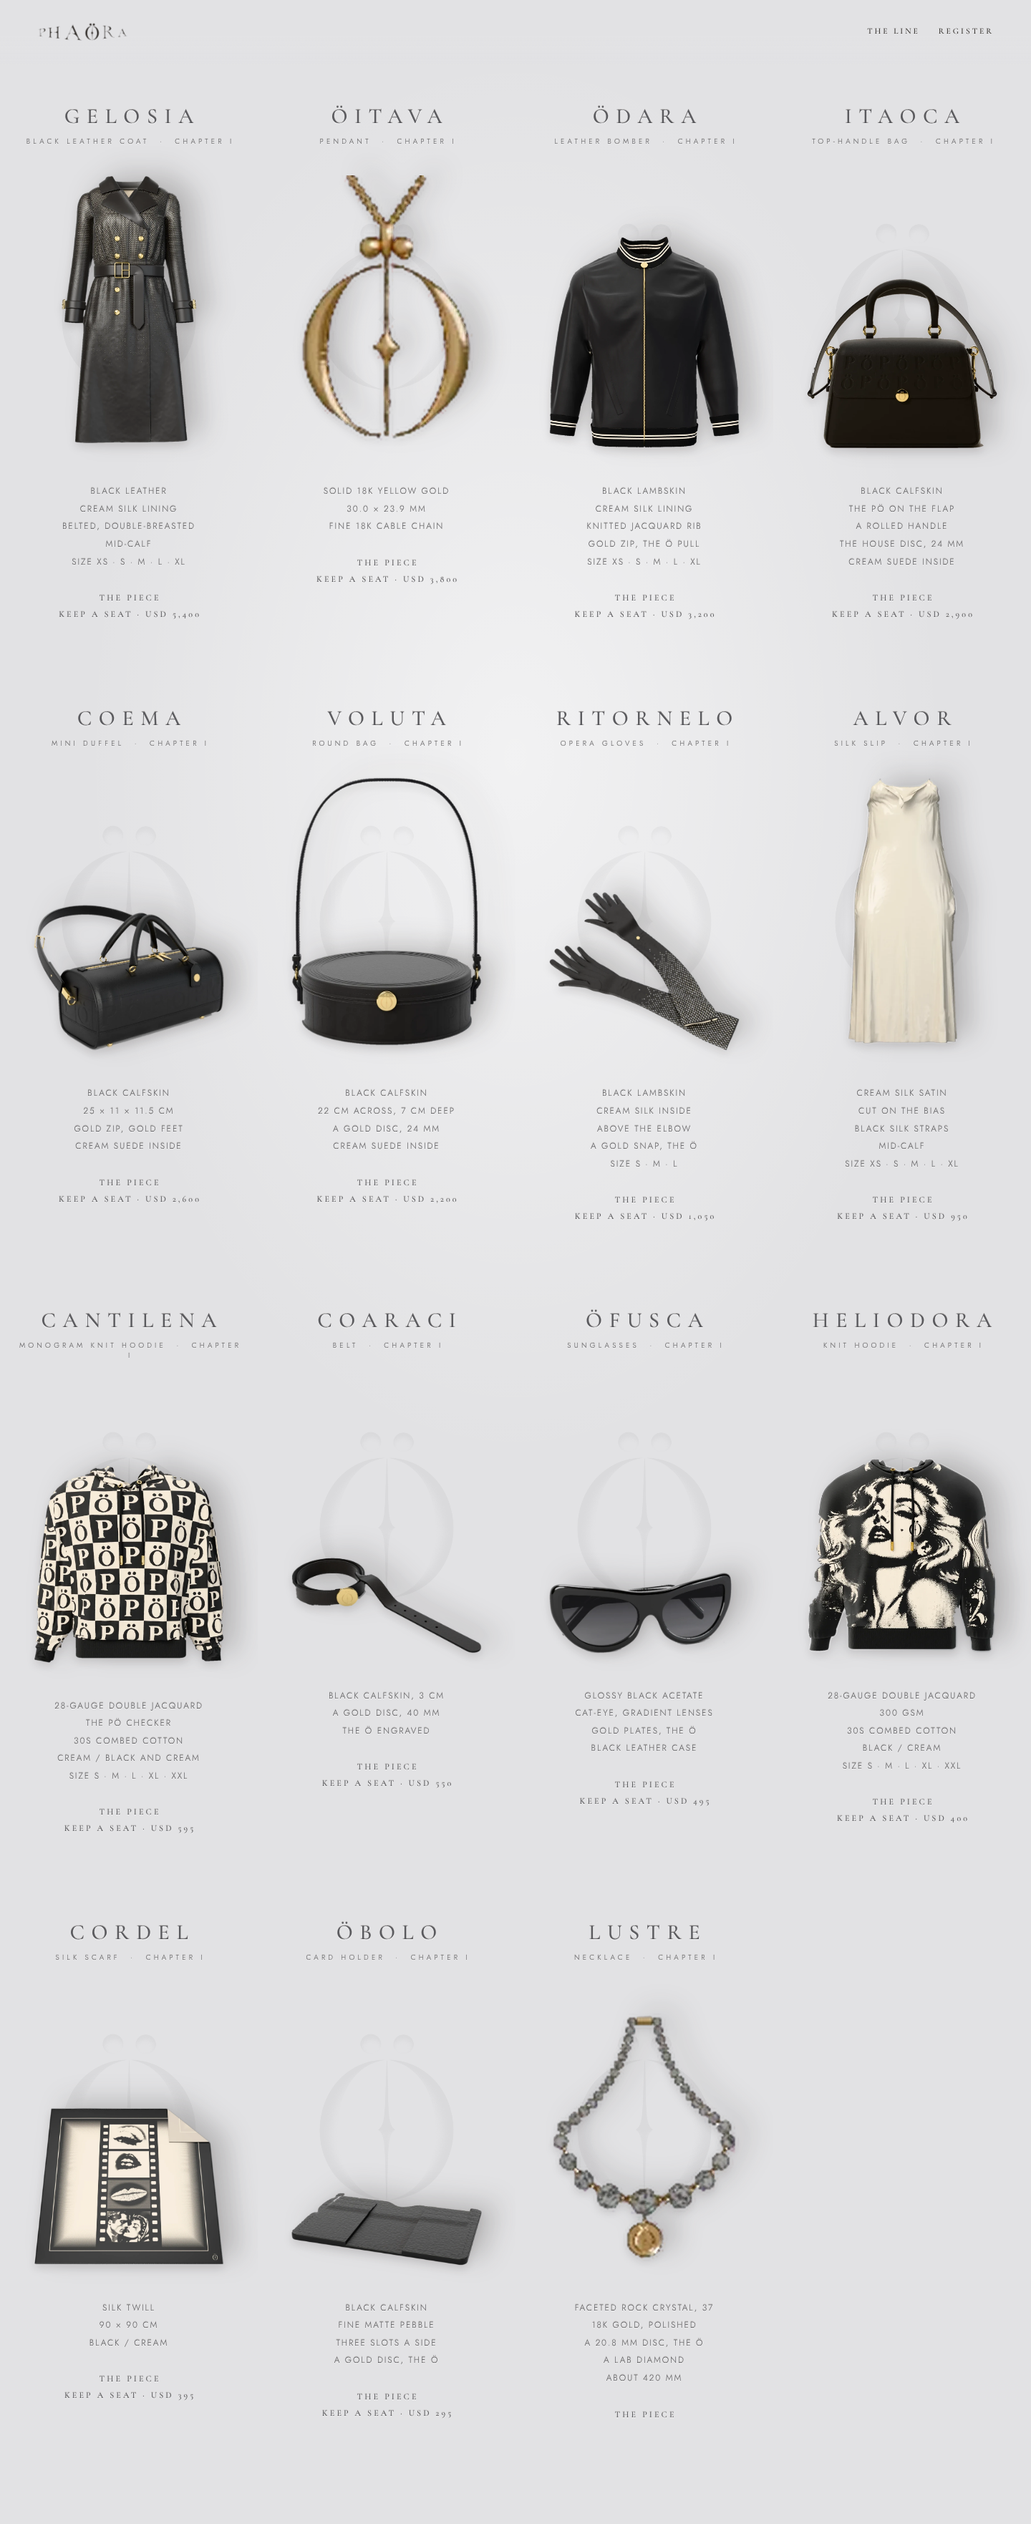
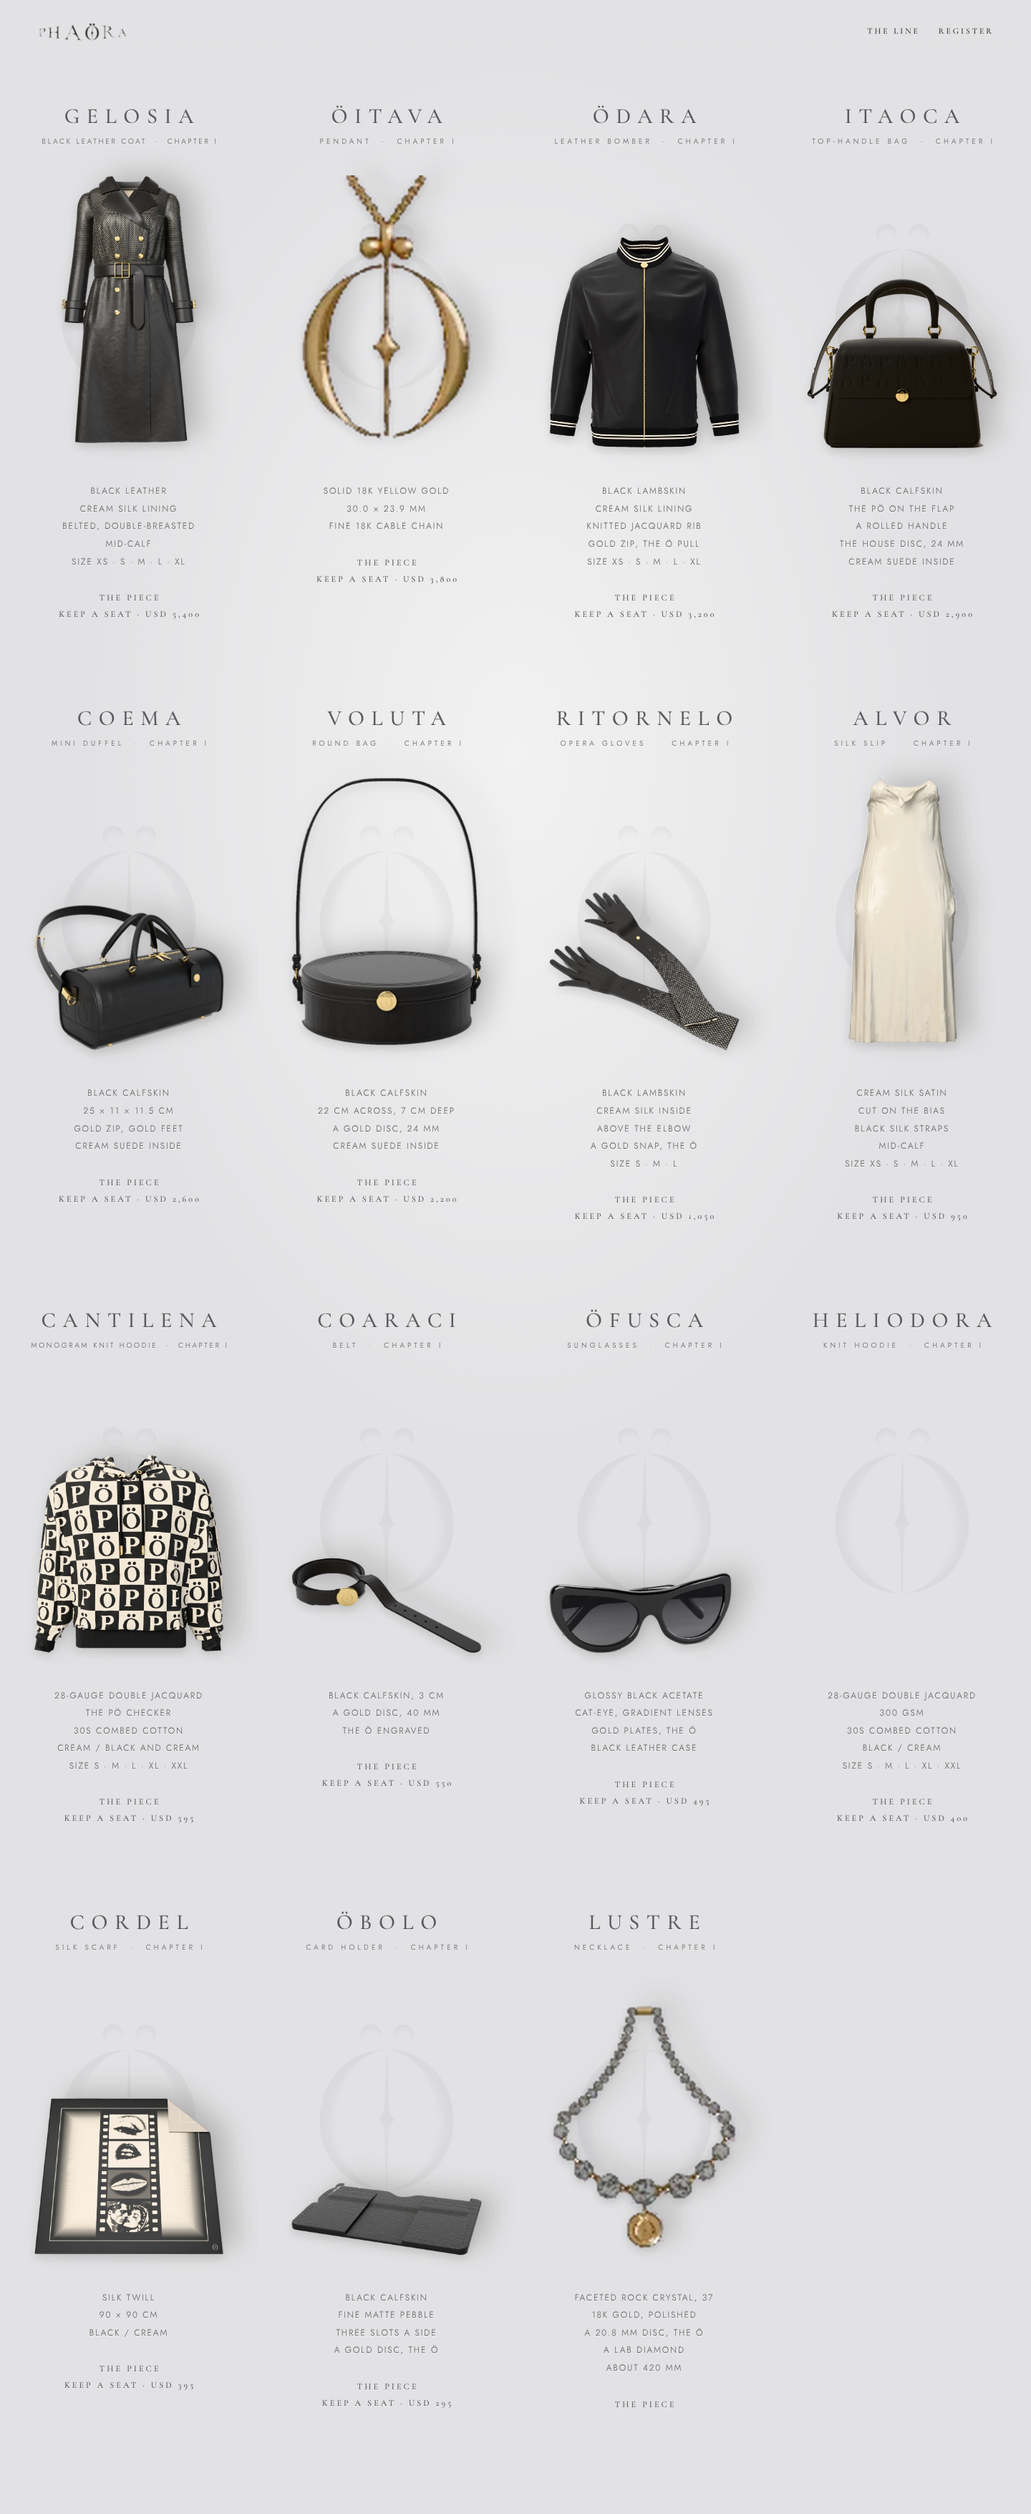
Catalogue: every type line on one line (Cantilena's tightened), down to the narrowest desktop
Claude-Session: https://claude.ai/code/session_0133zY8WYR2Yz4VqDzteq4sV

diff --git a/chapter-1/index.html b/chapter-1/index.html
@@ -13,7 +13,7 @@
 <div class="top"></div>
 <a id="logo" href="#top" aria-label="PHAÖRA"></a>
 <nav id="sitenav"><a href="#top">The line</a><a href="/">Register</a></nav>
-<main class="cat"><article class="col" id="gelosia"><h2 class="t cut">GELOSIA</h2><p class="s cut">BLACK LEATHER COAT &nbsp;·&nbsp; CHAPTER I</p><a class="ph" href="gelosia.html"><img src="assets/room/veil_coat.webp" alt="Gelosia, black leather coat" loading="lazy" decoding="async"></a><ul class="specs cut"><li>BLACK LEATHER</li><li>CREAM SILK LINING</li><li>BELTED, DOUBLE-BREASTED</li><li>MID-CALF</li><li>SIZE  XS · S · M · L · XL</li></ul><p class="links cut"><a href="gelosia.html">The piece</a><a href="/">Keep a seat · USD 5,400</a></p></article><article class="col" id="oitava"><h2 class="t cut">ÖITAVA</h2><p class="s cut">PENDANT &nbsp;·&nbsp; CHAPTER I</p><a class="ph" href="oitava.html"><img src="assets/room/oitava.webp" alt="Öitava, pendant" loading="lazy" decoding="async"></a><ul class="specs cut"><li>SOLID 18K YELLOW GOLD</li><li>30.0 × 23.9 MM</li><li>FINE 18K CABLE CHAIN</li></ul><p class="links cut"><a href="oitava.html">The piece</a><a href="/">Keep a seat · USD 3,800</a></p></article><article class="col" id="odara"><h2 class="t cut">ÖDARA</h2><p class="s cut">LEATHER BOMBER &nbsp;·&nbsp; CHAPTER I</p><a class="ph" href="odara.html"><img src="assets/room/muse_bomber.webp" alt="Ödara, leather bomber" loading="lazy" decoding="async"></a><ul class="specs cut"><li>BLACK LAMBSKIN</li><li>CREAM SILK LINING</li><li>KNITTED JACQUARD RIB</li><li>GOLD ZIP, THE Ö PULL</li><li>SIZE  XS · S · M · L · XL</li></ul><p class="links cut"><a href="odara.html">The piece</a><a href="/">Keep a seat · USD 3,200</a></p></article><article class="col" id="itaoca"><h2 class="t cut">ITAOCA</h2><p class="s cut">TOP-HANDLE BAG &nbsp;·&nbsp; CHAPTER I</p><a class="ph" href="itaoca.html"><img src="assets/room/po_tophandle.webp" alt="Itaoca, top-handle bag" loading="lazy" decoding="async"></a><ul class="specs cut"><li>BLACK CALFSKIN</li><li>THE PÖ ON THE FLAP</li><li>A ROLLED HANDLE</li><li>THE HOUSE DISC, 24 MM</li><li>CREAM SUEDE INSIDE</li></ul><p class="links cut"><a href="itaoca.html">The piece</a><a href="/">Keep a seat · USD 2,900</a></p></article><article class="col" id="coema"><h2 class="t cut">COEMA</h2><p class="s cut">MINI DUFFEL &nbsp;·&nbsp; CHAPTER I</p><a class="ph" href="coema.html"><img src="assets/room/matinee.webp" alt="Coema, mini duffel" loading="lazy" decoding="async"></a><ul class="specs cut"><li>BLACK CALFSKIN</li><li>25 × 11 × 11.5 CM</li><li>GOLD ZIP, GOLD FEET</li><li>CREAM SUEDE INSIDE</li></ul><p class="links cut"><a href="coema.html">The piece</a><a href="/">Keep a seat · USD 2,600</a></p></article><article class="col" id="voluta"><h2 class="t cut">VOLUTA</h2><p class="s cut">ROUND BAG &nbsp;·&nbsp; CHAPTER I</p><a class="ph" href="voluta.html"><img src="assets/room/the_reel.webp" alt="Voluta, round bag" loading="lazy" decoding="async"></a><ul class="specs cut"><li>BLACK CALFSKIN</li><li>22 CM ACROSS, 7 CM DEEP</li><li>A GOLD DISC, 24 MM</li><li>CREAM SUEDE INSIDE</li></ul><p class="links cut"><a href="voluta.html">The piece</a><a href="/">Keep a seat · USD 2,200</a></p></article><article class="col" id="ritornelo"><h2 class="t cut">RITORNELO</h2><p class="s cut">OPERA GLOVES &nbsp;·&nbsp; CHAPTER I</p><a class="ph" href="ritornelo.html"><img src="assets/room/opera_gloves.webp" alt="Ritornelo, opera gloves" loading="lazy" decoding="async"></a><ul class="specs cut"><li>BLACK LAMBSKIN</li><li>CREAM SILK INSIDE</li><li>ABOVE THE ELBOW</li><li>A GOLD SNAP, THE Ö</li><li>SIZE  S · M · L</li></ul><p class="links cut"><a href="ritornelo.html">The piece</a><a href="/">Keep a seat · USD 1,050</a></p></article><article class="col" id="alvor"><h2 class="t cut">ALVOR</h2><p class="s cut">SILK SLIP &nbsp;·&nbsp; CHAPTER I</p><a class="ph" href="alvor.html"><img src="assets/room/silk_slip.webp" alt="Alvor, silk slip" loading="lazy" decoding="async"></a><ul class="specs cut"><li>CREAM SILK SATIN</li><li>CUT ON THE BIAS</li><li>BLACK SILK STRAPS</li><li>MID-CALF</li><li>SIZE  XS · S · M · L · XL</li></ul><p class="links cut"><a href="alvor.html">The piece</a><a href="/">Keep a seat · USD 950</a></p></article><article class="col" id="cantilena"><h2 class="t cut">CANTILENA</h2><p class="s cut">MONOGRAM KNIT HOODIE &nbsp;·&nbsp; CHAPTER I</p><a class="ph" href="cantilena.html"><img src="assets/room/cantilena.webp" alt="Cantilena, monogram knit hoodie" loading="lazy" decoding="async"></a><ul class="specs cut"><li>28-GAUGE DOUBLE JACQUARD</li><li>THE PÖ CHECKER</li><li>30S COMBED COTTON</li><li>CREAM / BLACK AND CREAM</li><li>SIZE  S · M · L · XL · XXL</li></ul><p class="links cut"><a href="cantilena.html">The piece</a><a href="/">Keep a seat · USD 595</a></p></article><article class="col" id="coaraci"><h2 class="t cut">COARACI</h2><p class="s cut">BELT &nbsp;·&nbsp; CHAPTER I</p><a class="ph" href="coaraci.html"><img src="assets/room/disc_belt.webp" alt="Coaraci, belt" loading="lazy" decoding="async"></a><ul class="specs cut"><li>BLACK CALFSKIN, 3 CM</li><li>A GOLD DISC, 40 MM</li><li>THE Ö ENGRAVED</li></ul><p class="links cut"><a href="coaraci.html">The piece</a><a href="/">Keep a seat · USD 550</a></p></article><article class="col" id="ofusca"><h2 class="t cut">ÖFUSCA</h2><p class="s cut">SUNGLASSES &nbsp;·&nbsp; CHAPTER I</p><a class="ph" href="ofusca.html"><img src="assets/room/sunglasses.webp" alt="Öfusca, sunglasses" loading="lazy" decoding="async"></a><ul class="specs cut"><li>GLOSSY BLACK ACETATE</li><li>CAT-EYE, GRADIENT LENSES</li><li>GOLD PLATES, THE Ö</li><li>BLACK LEATHER CASE</li></ul><p class="links cut"><a href="ofusca.html">The piece</a><a href="/">Keep a seat · USD 495</a></p></article><article class="col" id="heliodora"><h2 class="t cut">HELIODORA</h2><p class="s cut">KNIT HOODIE &nbsp;·&nbsp; CHAPTER I</p><a class="ph" href="heliodora.html"><img src="assets/room/muse_allover.webp" alt="Heliodora, knit hoodie" loading="lazy" decoding="async"></a><ul class="specs cut"><li>28-GAUGE DOUBLE JACQUARD</li><li>300 GSM</li><li>30S COMBED COTTON</li><li>BLACK / CREAM</li><li>SIZE  S · M · L · XL · XXL</li></ul><p class="links cut"><a href="heliodora.html">The piece</a><a href="/">Keep a seat · USD 400</a></p></article><article class="col" id="cordel"><h2 class="t cut">CORDEL</h2><p class="s cut">SILK SCARF &nbsp;·&nbsp; CHAPTER I</p><a class="ph" href="cordel.html"><img src="assets/room/silk_scarf.webp" alt="Cordel, silk scarf" loading="lazy" decoding="async"></a><ul class="specs cut"><li>SILK TWILL</li><li>90 × 90 CM</li><li>BLACK / CREAM</li></ul><p class="links cut"><a href="cordel.html">The piece</a><a href="/">Keep a seat · USD 395</a></p></article><article class="col" id="obolo"><h2 class="t cut">ÖBOLO</h2><p class="s cut">CARD HOLDER &nbsp;·&nbsp; CHAPTER I</p><a class="ph" href="obolo.html"><img src="assets/room/card_holder.webp" alt="Öbolo, card holder" loading="lazy" decoding="async"></a><ul class="specs cut"><li>BLACK CALFSKIN</li><li>FINE MATTE PEBBLE</li><li>THREE SLOTS A SIDE</li><li>A GOLD DISC, THE Ö</li></ul><p class="links cut"><a href="obolo.html">The piece</a><a href="/">Keep a seat · USD 295</a></p></article><article class="col" id="lustre"><h2 class="t cut">LUSTRE</h2><p class="s cut">NECKLACE &nbsp;·&nbsp; CHAPTER I</p><a class="ph" href="lustre.html"><img src="assets/room/lustre.webp" alt="Lustre, necklace" loading="lazy" decoding="async"></a><ul class="specs cut"><li>FACETED ROCK CRYSTAL, 37</li><li>18K GOLD, POLISHED</li><li>A 20.8 MM DISC, THE Ö</li><li>A LAB DIAMOND</li><li>ABOUT 420 MM</li></ul><p class="links cut"><a href="lustre.html">The piece</a></p></article></main>
+<main class="cat"><article class="col" id="gelosia"><h2 class="t cut">GELOSIA</h2><p class="s cut long">BLACK LEATHER COAT &nbsp;·&nbsp; CHAPTER I</p><a class="ph" href="gelosia.html"><img src="assets/room/veil_coat.webp" alt="Gelosia, black leather coat" loading="lazy" decoding="async"></a><ul class="specs cut"><li>BLACK LEATHER</li><li>CREAM SILK LINING</li><li>BELTED, DOUBLE-BREASTED</li><li>MID-CALF</li><li>SIZE  XS · S · M · L · XL</li></ul><p class="links cut"><a href="gelosia.html">The piece</a><a href="/">Keep a seat · USD 5,400</a></p></article><article class="col" id="oitava"><h2 class="t cut">ÖITAVA</h2><p class="s cut">PENDANT &nbsp;·&nbsp; CHAPTER I</p><a class="ph" href="oitava.html"><img src="assets/room/oitava.webp" alt="Öitava, pendant" loading="lazy" decoding="async"></a><ul class="specs cut"><li>SOLID 18K YELLOW GOLD</li><li>30.0 × 23.9 MM</li><li>FINE 18K CABLE CHAIN</li></ul><p class="links cut"><a href="oitava.html">The piece</a><a href="/">Keep a seat · USD 3,800</a></p></article><article class="col" id="odara"><h2 class="t cut">ÖDARA</h2><p class="s cut">LEATHER BOMBER &nbsp;·&nbsp; CHAPTER I</p><a class="ph" href="odara.html"><img src="assets/room/muse_bomber.webp" alt="Ödara, leather bomber" loading="lazy" decoding="async"></a><ul class="specs cut"><li>BLACK LAMBSKIN</li><li>CREAM SILK LINING</li><li>KNITTED JACQUARD RIB</li><li>GOLD ZIP, THE Ö PULL</li><li>SIZE  XS · S · M · L · XL</li></ul><p class="links cut"><a href="odara.html">The piece</a><a href="/">Keep a seat · USD 3,200</a></p></article><article class="col" id="itaoca"><h2 class="t cut">ITAOCA</h2><p class="s cut">TOP-HANDLE BAG &nbsp;·&nbsp; CHAPTER I</p><a class="ph" href="itaoca.html"><img src="assets/room/po_tophandle.webp" alt="Itaoca, top-handle bag" loading="lazy" decoding="async"></a><ul class="specs cut"><li>BLACK CALFSKIN</li><li>THE PÖ ON THE FLAP</li><li>A ROLLED HANDLE</li><li>THE HOUSE DISC, 24 MM</li><li>CREAM SUEDE INSIDE</li></ul><p class="links cut"><a href="itaoca.html">The piece</a><a href="/">Keep a seat · USD 2,900</a></p></article><article class="col" id="coema"><h2 class="t cut">COEMA</h2><p class="s cut">MINI DUFFEL &nbsp;·&nbsp; CHAPTER I</p><a class="ph" href="coema.html"><img src="assets/room/matinee.webp" alt="Coema, mini duffel" loading="lazy" decoding="async"></a><ul class="specs cut"><li>BLACK CALFSKIN</li><li>25 × 11 × 11.5 CM</li><li>GOLD ZIP, GOLD FEET</li><li>CREAM SUEDE INSIDE</li></ul><p class="links cut"><a href="coema.html">The piece</a><a href="/">Keep a seat · USD 2,600</a></p></article><article class="col" id="voluta"><h2 class="t cut">VOLUTA</h2><p class="s cut">ROUND BAG &nbsp;·&nbsp; CHAPTER I</p><a class="ph" href="voluta.html"><img src="assets/room/the_reel.webp" alt="Voluta, round bag" loading="lazy" decoding="async"></a><ul class="specs cut"><li>BLACK CALFSKIN</li><li>22 CM ACROSS, 7 CM DEEP</li><li>A GOLD DISC, 24 MM</li><li>CREAM SUEDE INSIDE</li></ul><p class="links cut"><a href="voluta.html">The piece</a><a href="/">Keep a seat · USD 2,200</a></p></article><article class="col" id="ritornelo"><h2 class="t cut">RITORNELO</h2><p class="s cut">OPERA GLOVES &nbsp;·&nbsp; CHAPTER I</p><a class="ph" href="ritornelo.html"><img src="assets/room/opera_gloves.webp" alt="Ritornelo, opera gloves" loading="lazy" decoding="async"></a><ul class="specs cut"><li>BLACK LAMBSKIN</li><li>CREAM SILK INSIDE</li><li>ABOVE THE ELBOW</li><li>A GOLD SNAP, THE Ö</li><li>SIZE  S · M · L</li></ul><p class="links cut"><a href="ritornelo.html">The piece</a><a href="/">Keep a seat · USD 1,050</a></p></article><article class="col" id="alvor"><h2 class="t cut">ALVOR</h2><p class="s cut">SILK SLIP &nbsp;·&nbsp; CHAPTER I</p><a class="ph" href="alvor.html"><img src="assets/room/silk_slip.webp" alt="Alvor, silk slip" loading="lazy" decoding="async"></a><ul class="specs cut"><li>CREAM SILK SATIN</li><li>CUT ON THE BIAS</li><li>BLACK SILK STRAPS</li><li>MID-CALF</li><li>SIZE  XS · S · M · L · XL</li></ul><p class="links cut"><a href="alvor.html">The piece</a><a href="/">Keep a seat · USD 950</a></p></article><article class="col" id="cantilena"><h2 class="t cut">CANTILENA</h2><p class="s cut long">MONOGRAM KNIT HOODIE &nbsp;·&nbsp; CHAPTER I</p><a class="ph" href="cantilena.html"><img src="assets/room/cantilena.webp" alt="Cantilena, monogram knit hoodie" loading="lazy" decoding="async"></a><ul class="specs cut"><li>28-GAUGE DOUBLE JACQUARD</li><li>THE PÖ CHECKER</li><li>30S COMBED COTTON</li><li>CREAM / BLACK AND CREAM</li><li>SIZE  S · M · L · XL · XXL</li></ul><p class="links cut"><a href="cantilena.html">The piece</a><a href="/">Keep a seat · USD 595</a></p></article><article class="col" id="coaraci"><h2 class="t cut">COARACI</h2><p class="s cut">BELT &nbsp;·&nbsp; CHAPTER I</p><a class="ph" href="coaraci.html"><img src="assets/room/disc_belt.webp" alt="Coaraci, belt" loading="lazy" decoding="async"></a><ul class="specs cut"><li>BLACK CALFSKIN, 3 CM</li><li>A GOLD DISC, 40 MM</li><li>THE Ö ENGRAVED</li></ul><p class="links cut"><a href="coaraci.html">The piece</a><a href="/">Keep a seat · USD 550</a></p></article><article class="col" id="ofusca"><h2 class="t cut">ÖFUSCA</h2><p class="s cut">SUNGLASSES &nbsp;·&nbsp; CHAPTER I</p><a class="ph" href="ofusca.html"><img src="assets/room/sunglasses.webp" alt="Öfusca, sunglasses" loading="lazy" decoding="async"></a><ul class="specs cut"><li>GLOSSY BLACK ACETATE</li><li>CAT-EYE, GRADIENT LENSES</li><li>GOLD PLATES, THE Ö</li><li>BLACK LEATHER CASE</li></ul><p class="links cut"><a href="ofusca.html">The piece</a><a href="/">Keep a seat · USD 495</a></p></article><article class="col" id="heliodora"><h2 class="t cut">HELIODORA</h2><p class="s cut">KNIT HOODIE &nbsp;·&nbsp; CHAPTER I</p><a class="ph" href="heliodora.html"><img src="assets/room/muse_allover.webp" alt="Heliodora, knit hoodie" loading="lazy" decoding="async"></a><ul class="specs cut"><li>28-GAUGE DOUBLE JACQUARD</li><li>300 GSM</li><li>30S COMBED COTTON</li><li>BLACK / CREAM</li><li>SIZE  S · M · L · XL · XXL</li></ul><p class="links cut"><a href="heliodora.html">The piece</a><a href="/">Keep a seat · USD 400</a></p></article><article class="col" id="cordel"><h2 class="t cut">CORDEL</h2><p class="s cut">SILK SCARF &nbsp;·&nbsp; CHAPTER I</p><a class="ph" href="cordel.html"><img src="assets/room/silk_scarf.webp" alt="Cordel, silk scarf" loading="lazy" decoding="async"></a><ul class="specs cut"><li>SILK TWILL</li><li>90 × 90 CM</li><li>BLACK / CREAM</li></ul><p class="links cut"><a href="cordel.html">The piece</a><a href="/">Keep a seat · USD 395</a></p></article><article class="col" id="obolo"><h2 class="t cut">ÖBOLO</h2><p class="s cut">CARD HOLDER &nbsp;·&nbsp; CHAPTER I</p><a class="ph" href="obolo.html"><img src="assets/room/card_holder.webp" alt="Öbolo, card holder" loading="lazy" decoding="async"></a><ul class="specs cut"><li>BLACK CALFSKIN</li><li>FINE MATTE PEBBLE</li><li>THREE SLOTS A SIDE</li><li>A GOLD DISC, THE Ö</li></ul><p class="links cut"><a href="obolo.html">The piece</a><a href="/">Keep a seat · USD 295</a></p></article><article class="col" id="lustre"><h2 class="t cut">LUSTRE</h2><p class="s cut">NECKLACE &nbsp;·&nbsp; CHAPTER I</p><a class="ph" href="lustre.html"><img src="assets/room/lustre.webp" alt="Lustre, necklace" loading="lazy" decoding="async"></a><ul class="specs cut"><li>FACETED ROCK CRYSTAL, 37</li><li>18K GOLD, POLISHED</li><li>A 20.8 MM DISC, THE Ö</li><li>A LAB DIAMOND</li><li>ABOUT 420 MM</li></ul><p class="links cut"><a href="lustre.html">The piece</a></p></article></main>
 <script>
 // David's lettering with the solo Ö, inlined in the room's dark ink, as room.js does (never typed)
 fetch('assets/lettering-solo-offwhite.svg').then(r => r.text()).then(t => { document.getElementById('logo').innerHTML =

diff --git a/chapter-1/assets/css/catalogue.css b/chapter-1/assets/css/catalogue.css
@@ -13,7 +13,8 @@ a{color:inherit;text-decoration:none}
 .col{position:relative;display:flex;flex-direction:column;align-items:center;text-align:center;padding:34px 18px 70px;overflow:hidden}
 .col::before{content:'';position:absolute;inset:8% 10% auto;height:62%;background:url(../brand/mark-ink.png) center/contain no-repeat;opacity:.035;pointer-events:none}
 .col .t{font-family:'Cormorant Garamond','DejaVu Serif',serif;font-weight:500;font-size:30px;letter-spacing:.32em;padding-left:.32em;margin:0}
-.col .s{font:300 10px/1.4 'Jost','DejaVu Sans',sans-serif;letter-spacing:.42em;padding-left:.42em;margin:10px 0 0}
+.col .s{font:300 10px/1.4 'Jost','DejaVu Sans',sans-serif;letter-spacing:.42em;padding-left:.42em;margin:10px -14px 0;white-space:nowrap}
+.col .s.long{letter-spacing:.28em;padding-left:.28em}   /* a long type line (Cantilena) kept on one line */
 .col .ph{position:relative;width:100%;height:clamp(240px,28vw,420px);margin:40px 0 26px;display:flex;align-items:flex-end;justify-content:center}
 .col .ph img{max-width:82%;max-height:100%;object-fit:contain;filter:drop-shadow(22px -10px 18px rgba(40,36,30,.2)) drop-shadow(0 6px 6px rgba(40,36,30,.12))}
 .col .specs{list-style:none;margin:0;padding:0;font:300 12px/2.05 'Jost','DejaVu Sans',sans-serif;letter-spacing:.16em}
@@ -28,3 +29,5 @@ a{color:inherit;text-decoration:none}
   .col .t{font-size:24px;letter-spacing:.32em}
   .col .ph{height:62vw;max-height:440px}
 }
+@media (min-width:821px) and (max-width:1240px){.col .s{letter-spacing:.26em;padding-left:.26em}.col .s.long{letter-spacing:.14em;padding-left:.14em}}
+@media (min-width:821px) and (max-width:1000px){.col .s{font-size:9px;letter-spacing:.16em;padding-left:.16em}.col .s.long{font-size:8.5px;letter-spacing:.08em;padding-left:.08em}}

diff --git a/chapter-1/build.py b/chapter-1/build.py
@@ -613,7 +613,7 @@ def catalogue_home():
         specs = (C.ROOM_SET.get(q['id'], {}).get('specs') or default)
         links = f'<a href="{q["page"]}.html">The piece</a>' + (f'<a href="{REGISTER}">Keep a seat · {E(price)}</a>' if price and not q.get('nosale') else '')
         cols += (f'<article class="col" id="{q["page"]}"><h2 class="t cut">{E(q["name"].upper())}</h2>'
-                 f'<p class="s cut">{E(q["plain"].upper())} &nbsp;·&nbsp; CHAPTER I</p>'
+                 f'<p class="s cut{" long" if len(q["plain"]) > 16 else ""}">{E(q["plain"].upper())} &nbsp;·&nbsp; CHAPTER I</p>'
                  f'<a class="ph" href="{q["page"]}.html"><img src="assets/room/{q["id"]}.webp" alt="{E(q["name"])}, {E(q["plain"].lower())}" loading="lazy" decoding="async"></a>'
                  f'<ul class="specs cut">' + ''.join(f'<li>{E(x)}</li>' for x in specs) + f'</ul><p class="links cut">{links}</p></article>')
     doc = f'''<!doctype html>
